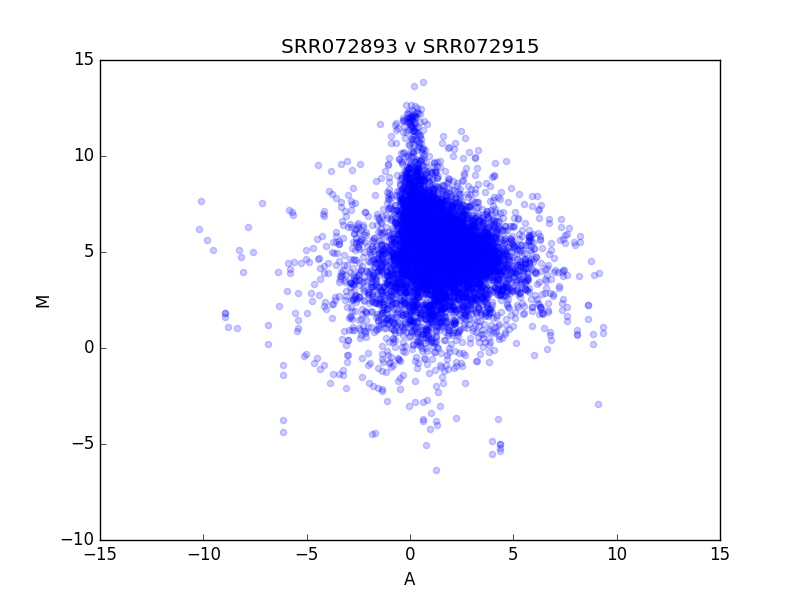
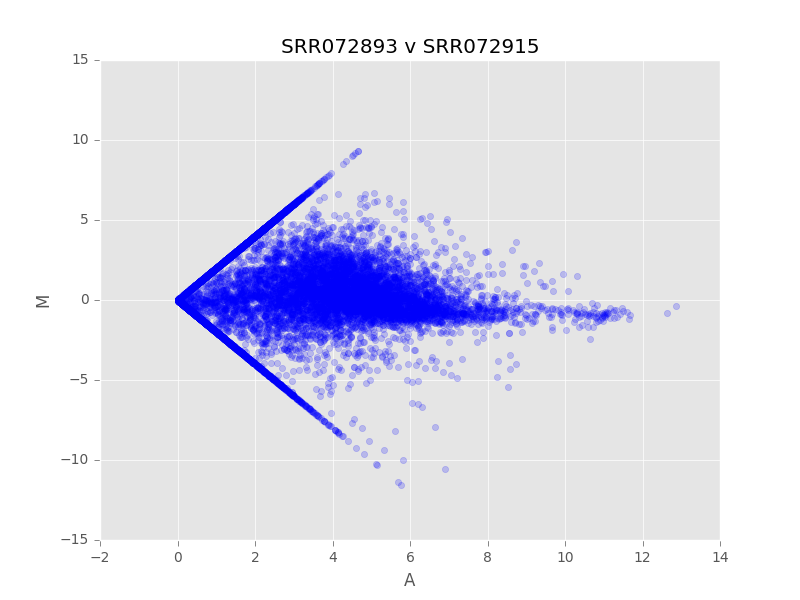
Modified exercise 3

diff --git a/day4-homework/d4-hw3.py b/day4-homework/d4-hw3.py
@@ -4,6 +4,7 @@ import sys
 import pandas as pd
 import matplotlib.pyplot as plt
 import numpy as np
+plt.style.use('ggplot')
 
 df = pd.read_table(sys.argv[1])
 df2 = pd.read_table(sys.argv[2])
@@ -11,14 +12,14 @@ df2 = pd.read_table(sys.argv[2])
 expr_R = df["FPKM"]
 expr_G = df2["FPKM"]
 
-log_R = np.log2(expr_R)
-log_G = np.log2(expr_G)
+log_R = np.log2(expr_R + 1)
+log_G = np.log2(expr_G + 1)
 
 the_m = log_R - log_G
 the_a = 0.5 * (log_R + log_G)
 
 plt.figure()
-plt.scatter(the_m + 1, the_a + 1, alpha = 0.2, color ='b')
+plt.scatter(the_a, the_m, alpha = 0.1, color ='b')
 plt.xlabel("A")
 plt.ylabel("M")
 plt.title("SRR072893 v SRR072915")
